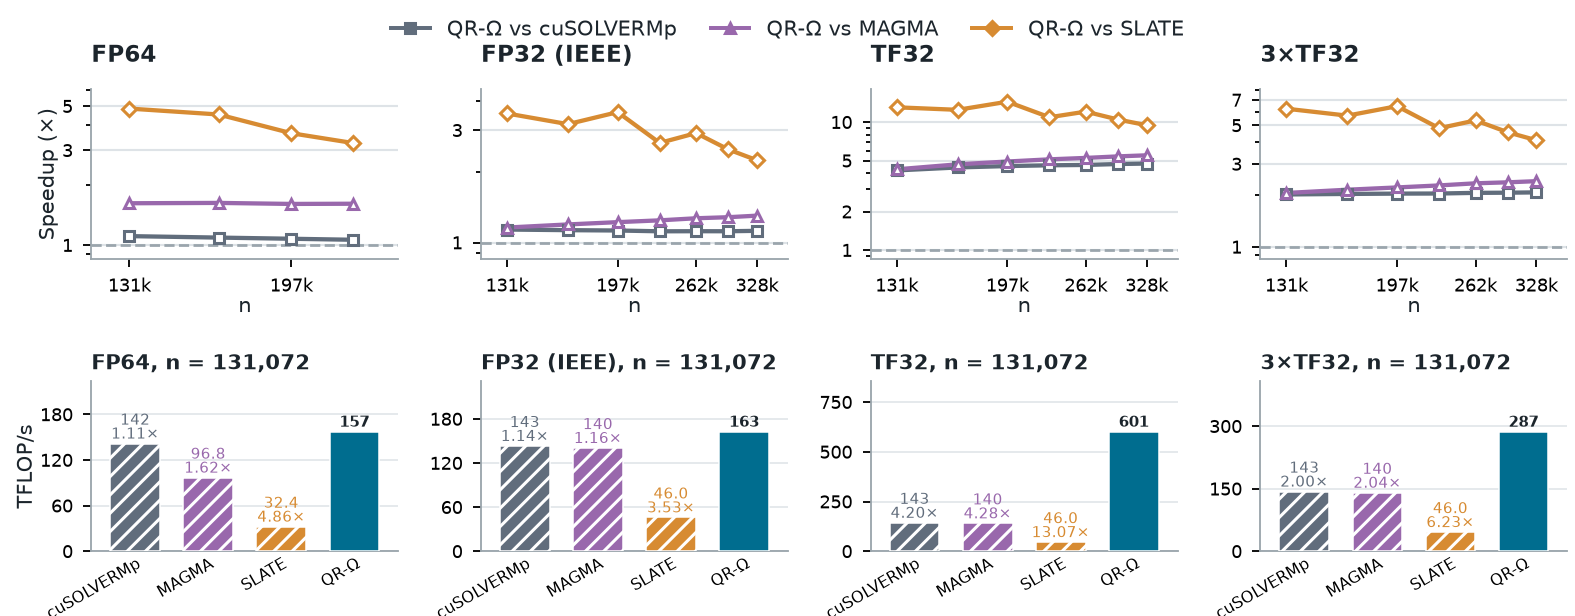
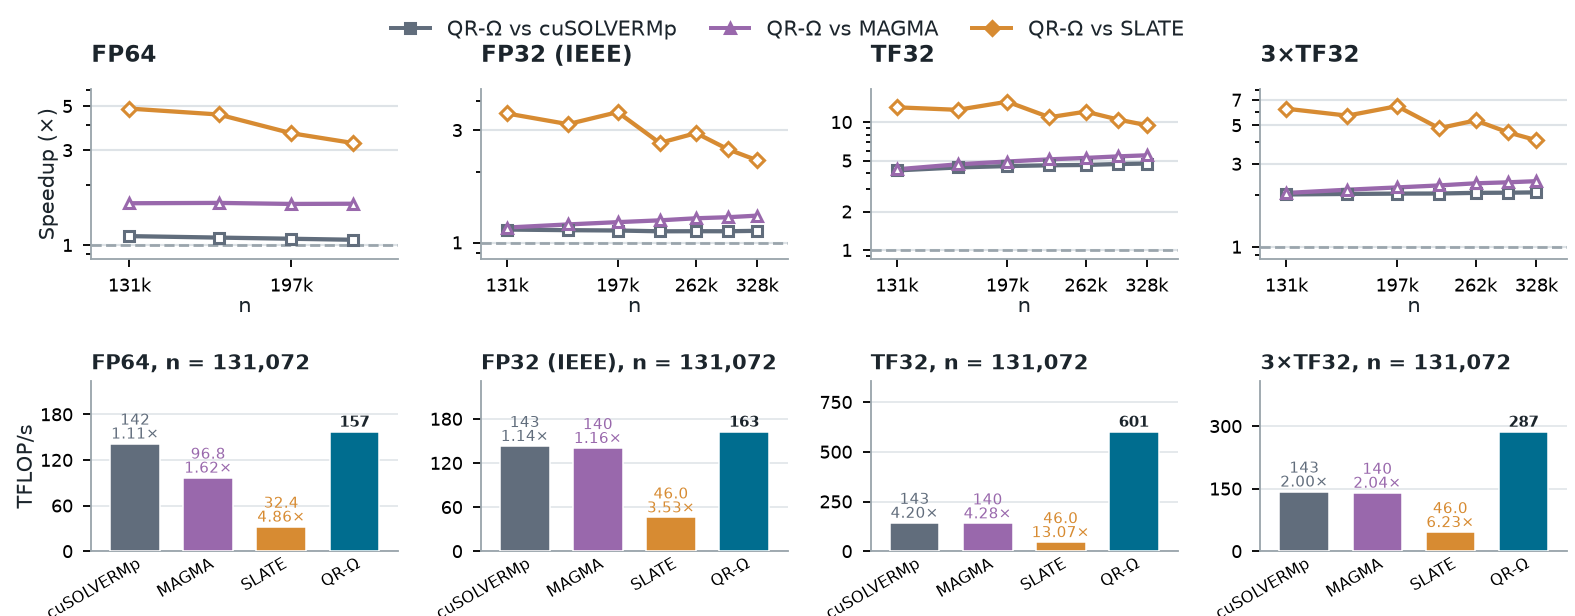
Draw solid throughput bars in the paper figures

diff --git a/plots/paper/paper_figures.py b/plots/paper/paper_figures.py
@@ -103,8 +103,7 @@ def bars(r, ax, p, mode):
         if not x:
             ax.text(i, peak * .03, "n/a", ha="center", va="bottom", fontsize=FS - 2, color="#64727B")
             continue
-        ax.bar(i, y, width=.68, color=r.colors[lib], edgecolor="white", lw=.5, zorder=3,
-               hatch="////" if x["validation"] == "timing_only" else None)
+        ax.bar(i, y, width=.68, color=r.colors[lib], edgecolor="white", lw=.5, zorder=3)
         label = f"{y:.1f}" if y < 100 else f"{y:.0f}"
         if i < 3 and own:
             label += f"\n{x['time_s'] / own['time_s']:.2f}×"

diff --git a/reproducers/README.md b/reproducers/README.md
@@ -29,8 +29,7 @@ the node. The published numbers were measured on NVIDIA DGX H200 nodes (driver 5
 * **Orthogonality.** `‖Q(QᵀX) − X‖_F / ‖X‖_F` for 16 deterministic random vectors `X`, applying Q from the retained
   factors. `--smoke` also forms Q explicitly and checks `‖QᵀQ − I‖_F / √m`.
 * The time and the checks of a data point come from the same configuration. TF32 and 3xTF32 are compared with the
-  references' FP32. On one GPU every library is checked; on several GPUs the paper reports the checks of QR-Ω and
-  the times of the references.
+  references' FP32.
 
 ## Reference libraries
 
